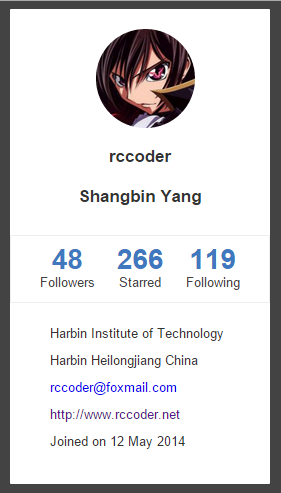
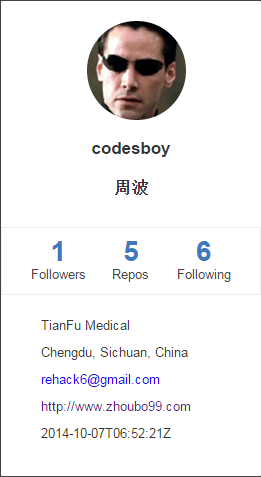
add readme

diff --git a/README.md b/README.md
@@ -1,2 +1,38 @@
-# Get-Your-GitHub-Card
-Get your github card for web site.
+# GitHub-Card
+Display GitHub Information On A Web Page
+
+![demo.png](./static/img/demo.png)
+
+## Install
+
+This plugin is dependent on [Jquery](https://jquery.com/), so you should require `jquery-2.0.0.min.js` and `GitHub-Card.js` at first. As written below:
+
+**(Make sure jquery.2.0.0.min.js in GitHub-Card.js front loading)**
+
+```html
+
+<script src="./lib/jquery-2.0.0.min.js"></script>
+
+<script src="./lib/GitHub-Card.js"></script>
+
+```
+
+Then, you should write the following code like me:
+
+```html
+<div id="github-card" data-username="codesboy"></div>
+```
+
+Last, you all get the GitHub-Card.
+
+## Used Interface
+
+[api.github.com](http://api.github.com)
+
+## Issues
+
+if there has any problem, please let me know. Thanks~
+
+## LICENSE
+
+### Apache
